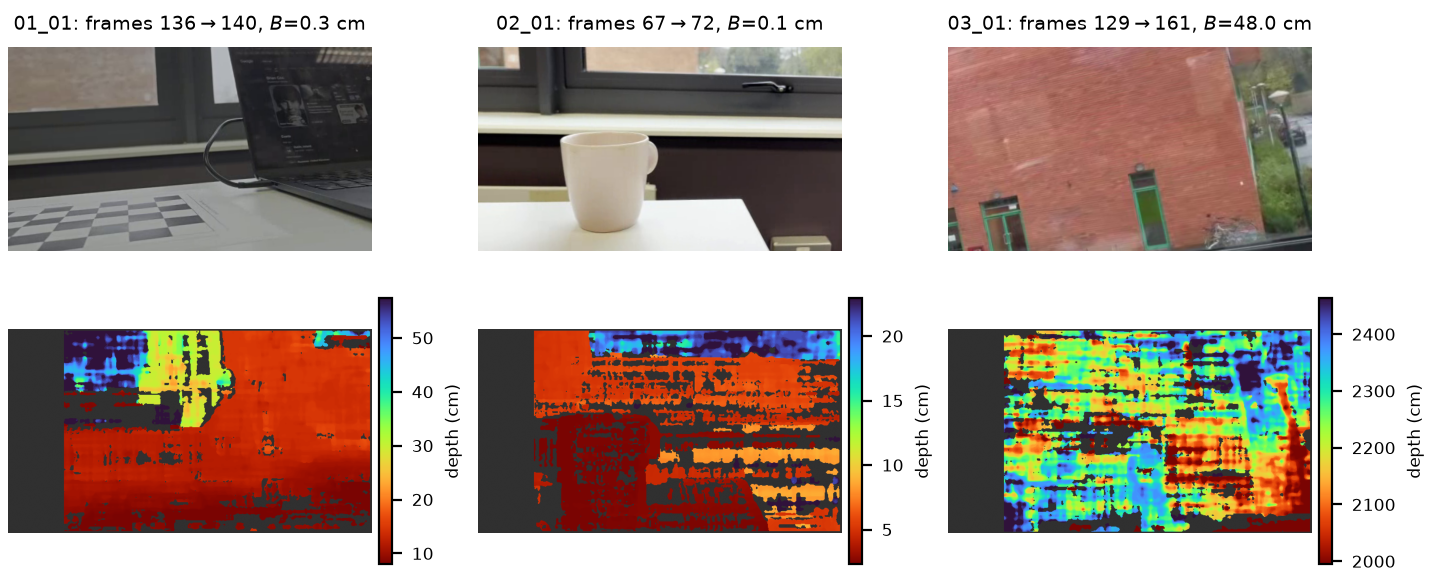
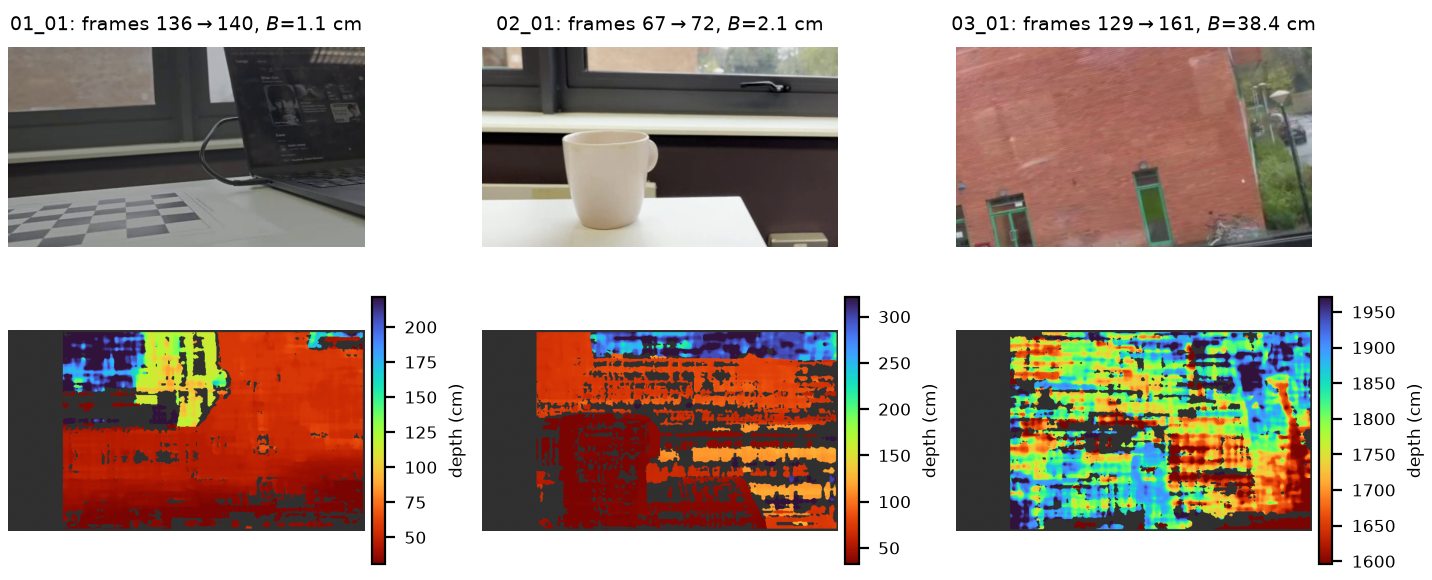
Anchor depth scale to objects of known size
The per-scene camera speeds were guesses (the mug of 02_01 came out ~3 cm
away). mypylibs/scale.py now derives them: 01_01 from the calibration
board on the desk (solvePnP), 02_01 from a mug of typical size, 03_01
from the building's storey and door heights. Report and figures updated.

diff --git a/report.tex b/report.tex
@@ -31,7 +31,7 @@
 \maketitle
 
 \begin{abstract}
-We calibrated three phone cameras (Samsung Galaxy Z Fold6, iPhone 15, iPhone 15 Pro) from checkerboard videos, reaching mean reprojection errors of 0.12--0.41\,px, and used the intrinsics to estimate dense depth from a single moving camera: SIFT matches give the essential matrix and relative pose between two frames of a scene video, which are then rectified and matched with semi-global block matching. The first working version produced depth for only 5 frame pairs across the three scenes. Two causes dominated: a default distance threshold in \texttt{recoverPose} that discarded most points of a small-baseline pair, and the ambiguity between a small pan and a sideways slide. After fixing both, 213 pairs give depth maps whose depth ordering is correct in all scenes, but whose absolute scale depends on a hand-set camera speed and is the weakest part of the pipeline.
+We calibrated three phone cameras (Samsung Galaxy Z Fold6, iPhone 15, iPhone 15 Pro) from checkerboard videos, reaching mean reprojection errors of 0.12--0.41\,px, and used the intrinsics to estimate dense depth from a single moving camera: SIFT matches give the essential matrix and relative pose between two frames of a scene video, which are then rectified and matched with semi-global block matching. The first working version produced depth for only 5 frame pairs across the three scenes. Two causes dominated: a default distance threshold in \texttt{recoverPose} that discarded most points of a small-baseline pair, and the ambiguity between a small pan and a sideways slide. After fixing both, 212 pairs give depth maps whose depth ordering is correct in all scenes. The absolute scale is the weakest part: it comes from a steady-speed assumption, anchored by the calibration board in one scene and by objects of typical size in the other two.
 \end{abstract}
 
 \section{Methodology}
@@ -82,7 +82,7 @@ Each pair is rectified with \texttt{stereoRectify} (\texttt{CALIB\_ZERO\_DISPARI
 \begin{equation}
 Z = \frac{f\,B}{d} = \frac{-P_2[0,3]}{d},
 \end{equation}
-where $P_2$ is the second rectified projection matrix, which already contains $f\cdot B$ ($P_2[1,3]$ for vertical pairs). The translation from \texttt{recoverPose} has no scale, so $B$ is set by assuming the phone moves at a constant speed, hand-picked per scene (0.07, 0.03 and 1.5\,cm/frame) so that a reference object (laptop, mug, building) looked about right: $B=v\,(t_2-t_1)$. The output video shows each pair's depth with a colour bar in centimetres; frames without a usable pair keep the last depth map, labelled with its frame numbers.
+where $P_2$ is the second rectified projection matrix, which already contains $f\cdot B$ ($P_2[1,3]$ for vertical pairs). The translation from \texttt{recoverPose} has no scale, so $B=v\,(t_2-t_1)$, assuming the phone moves at a steady speed $v$ per scene. Video metadata holds no subject distance or motion data, so $v$ comes from something of known size. In 01\_01 the calibration board lies on the desk and is detected (after $2\times$ upscaling) in 5 frames between 90 and 107; \texttt{solvePnP} puts the camera 22--35\,cm from it and moving 4.6\,cm over those 17 frames, $v=0.27$\,cm/frame. In 02\_01 a mug 152\,px tall is assumed to be 9.5\,cm tall, i.e.\ 39\,cm away (its width gives 38.5\,cm); in 03\_01 the building's storeys (${\sim}95$\,px, 3\,m) and doors (${\sim}60$\,px, 2\,m) put the wall at 17.8--18.8\,m. $v$ is then the median, over the depth pairs within 8 frames, of the value that puts the object at that distance: 0.42 and 1.2\,cm/frame. The output video shows each pair's depth with a colour bar in centimetres; frames without a usable pair keep the last depth map, labelled with its frame numbers.
 
 \section{Results}
 
@@ -96,13 +96,13 @@ where $P_2$ is the second rectified projection matrix, which already contains $f
 Scene & frames & poses & depth (first version) & median gap & coverage \\
 \midrule
 01\_01 & 173 & 77 & 75 (2) & 4 & 0.57 \\
-02\_01 & 281 & 139 & 112 (1) & 14 & 0.40 \\
+02\_01 & 281 & 138 & 111 (1) & 14 & 0.40 \\
 03\_01 & 205 & 54 & 26 (2) & 52 & 0.57 \\
 \bottomrule
 \end{tabular}
 \end{table}
 
-Table~\ref{tab:scenes} counts the pairs that pass each stage; ``coverage'' is the median fraction of pixels with a valid depth. Fig.~\ref{fig:depth} shows one pair per scene. In all three the depth ordering is right: the laptop screen and mug are nearest, the window frame is further, and in 03\_01 the building wall is a nearly constant plane with the trees and car park behind it. On scene 01\_01, 75 of the 77 kept poses have $t\approx(-1,0,0)$, consistent with the phone sliding right, and chaining the pairs gives a smooth sideways path (Fig.~\ref{fig:traj}).
+Table~\ref{tab:scenes} counts the pairs that pass each stage; ``coverage'' is the median fraction of pixels with a valid depth. Fig.~\ref{fig:depth} shows one pair per scene. In all three the depth ordering is right and the values are plausible: the desk of 01\_01 at 30--50\,cm with the window 1--2\,m away, the mug of 02\_01 at ${\sim}40$\,cm with the window frame behind it, and in 03\_01 the building wall a nearly constant plane at 16--19\,m with the trees and car park behind it. On scene 01\_01, 75 of the 77 kept poses have $t\approx(-1,0,0)$, consistent with the phone sliding right, and chaining the pairs gives a smooth sideways path (Fig.~\ref{fig:traj}).
 
 \section{Discussion and failure analysis}
 
@@ -113,10 +113,10 @@ The first version kept 2, 1 and 2 pairs (Table~\ref{tab:scenes}) even though mat
 Once those poses were accepted, $t$ switched between $+x$ and $-x$ on neighbouring pairs of 01\_01 although every feature moved left. With a narrow field of view and a few pixels of motion, a slight pan explains the flow almost as well as a sideways slide, and the solver returns a wrong $R$ together with a flipped $t$. Flipping $t$ alone does not help, because the wrong $R$ is self-consistent with it. Instead we undo $R$ on the second frame's points: for a pure translation and positive depth, the remaining flow must all point the same way. On 01\_01, pairs whose $t$ matched the flow direction mostly scored above 95\% agreement and flipped ones 50--85\%, so we reject below 90\%. This cut the usable pairs of 01\_01 from 141 to 75 but removed almost all inconsistent ones; two survive, both where the phone turned by ${\sim}2^\circ$.
 
 \subsubsection{Scale}
-The weakest part is $B$. A single moving camera recovers $t$ only up to scale, and the per-scene speeds were guessed; in Fig.~\ref{fig:depth} the mug of 02\_01 comes out ${\sim}3$\,cm away, which is clearly wrong even if the ordering is right. Assuming constant speed also makes pairs with different gaps inconsistent when the hand speeds up or slows down. Measuring the distance to one object per scene (or sliding along a ruler) would fix the absolute scale; propagating relative scale between overlapping pairs by triangulating shared points would remove the constant-speed assumption.
+The weakest part is $B$. A single moving camera recovers $t$ only up to scale. Our first speeds were guessed (0.07, 0.03 and 1.5\,cm/frame) and put the mug of 02\_01 ${\sim}3$\,cm from the camera; the anchored values are 4$\times$ and 14$\times$ larger for 01 and 02, while the building guess was close. Only 01\_01 is measured; 02 and 03 rest on typical object sizes, so their scale is good to perhaps 15--20\%. The steady-speed assumption is visibly wrong: the pairs near the reference frame imply speeds from 0.19 to 0.51\,cm/frame in 02\_01 and 0.39 to 1.53 in 03\_01. Propagating relative scale between overlapping pairs by triangulating shared points would remove that assumption, leaving one scale factor per scene, and measuring one distance per scene with a tape would fix that factor.
 
 \subsubsection{Recording}
-Camera 02's board was detected in only 57 of 161 calibration frames, all between frames 14 and 90, so 19 views from a narrow range of poses fit $k_3=5.37$: low reprojection error, but a distortion polynomial that is unlikely to hold near the image corners. A slower recording with the board reaching the corners would constrain it better. Scene 03\_01 looks at a building tens of metres away while the phone barely moves (under 10\,px of flow in 60 frames), so pairs need gaps of ${\sim}50$ frames and only 26 give depth; 02\_01 mixes horizontal, vertical and forward motion, and 27 pairs are skipped for forward motion. Glass, the uniform wall and the white desk leave holes in the disparity. Given more time we would re-record with a longer, steadier slide, fix the scale as above, and fuse depth over several pairs per frame instead of showing one.
+Camera 02's board was detected in only 57 of 161 calibration frames, all between frames 14 and 90, so 19 views from a narrow range of poses fit $k_3=5.37$: low reprojection error, but a distortion polynomial that is unlikely to hold near the image corners. A slower recording with the board reaching the corners would constrain it better. We recorded one scene per camera rather than the two the brief asks for. Scene 03\_01 looks at a building ${\sim}18$\,m away while the phone barely moves (under 10\,px of flow in 60 frames), so pairs need gaps of ${\sim}50$ frames and only 26 give depth; 02\_01 mixes horizontal, vertical and forward motion, and 27 pairs are skipped for forward motion. Glass, the uniform wall and the white desk leave holes in the disparity. Given more time we would re-record with a longer, steadier slide, fix the scale as above, and fuse depth over several pairs per frame instead of showing one.
 
 \printbibliography
 

diff --git a/mypylibs/scale.py b/mypylibs/scale.py
@@ -1,0 +1,109 @@
+"""Camera speed (cm/frame) per scene, i.e. the scale of the depth step. Run after main.py:
+
+    python -m mypylibs.scale
+
+recoverPose's t has no length, so the depth step assumes the phone slides at a steady
+speed (runner.CM_PER_FRAME). The phones' video metadata has no subject distance or
+motion data, so the speed comes from something of known size in each scene:
+
+  01_01  the calibration board lies on the desk: solvePnP gives the camera position in
+         every frame where it is detected, and the speed is measured directly.
+  02_01  a mug, assumed 9.5 cm tall (152 px at frame 67, so ~39 cm away; its 8.2 cm
+         width gives 38.5 cm).
+  03_01  the building wall, ~18 m away at frame 129: storeys repeat every ~95 px (3 m
+         floor to floor -> 17.8 m) and the doors are ~60 px tall (2 m -> 18.8 m).
+
+For 02 and 03 the speed is the one that makes the median depth over the object match
+that distance, taken as the median over the depth pairs near the reference frame. The
+pairs disagree by up to 3x, partly because the hand doesn't move at a steady speed.
+"""
+
+import csv
+from os import path as opath
+
+import cv2
+import numpy as np
+
+from mypylibs.calibration import board_points
+from mypylibs.depth import compute_depth
+from mypylibs.frames import PATTERN
+from mypylibs.pose import detect, estimate_pose, match_features
+from mypylibs.runner import ROOT_IN, ROOT_OUT
+from mypylibs.video import read_frames
+
+# scene: (reference frame, object region x0, x1, y0, y1 in px, distance in cm)
+OBJECTS = {
+    '02_01': (67, (180, 280, 175, 290), 39.0),     # mug
+    '03_01': (129, (20, 360, 130, 260), 1800.0),   # building wall
+}
+NEAR = 8  # use depth pairs starting within this many frames of the reference frame
+
+
+def load(scene: str) -> tuple[list[np.ndarray], np.ndarray, np.ndarray]:
+    cam = scene[:2]
+    K = np.loadtxt(opath.join(ROOT_OUT, f'{cam}_K.csv'), delimiter=',')
+    D = np.loadtxt(opath.join(ROOT_OUT, f'{cam}_D.csv'), delimiter=',')
+    return read_frames(opath.join(ROOT_IN, f'{scene}.mp4')), K, D
+
+
+def board_speed(scene: str) -> float:
+    """Camera speed from the board's pose in every frame where the whole board is found.
+
+    The board is small and seen at a grazing angle, so frames are upscaled 2x and the
+    classic detector is used: the sector-based one finds nothing in 01_01.
+    """
+    frames, K, D = load(scene)
+    obj, centres = board_points(), {}
+    for i, frame in enumerate(frames):
+        gray = cv2.resize(cv2.cvtColor(frame, cv2.COLOR_BGR2GRAY), None, fx=2, fy=2,
+                          interpolation=cv2.INTER_CUBIC)
+        found, corners = cv2.findChessboardCorners(
+            gray, PATTERN, cv2.CALIB_CB_ADAPTIVE_THRESH | cv2.CALIB_CB_NORMALIZE_IMAGE)
+        if not found:
+            continue
+        corners = cv2.cornerSubPix(gray, corners, (5, 5), (-1, -1),
+                                   (cv2.TERM_CRITERIA_EPS + cv2.TERM_CRITERIA_MAX_ITER, 30, 0.01)) / 2
+        _, rvec, tvec = cv2.solvePnP(obj, corners, K, D)
+        centres[i] = (-cv2.Rodrigues(rvec)[0].T @ tvec).ravel()
+    idx = sorted(centres)
+    if len(idx) < 2:
+        raise RuntimeError(f'{scene}: board found in {len(idx)} frames, need 2')
+    distance = np.linalg.norm(centres[idx[-1]] - centres[idx[0]])
+    print(f'{scene}: board in frames {idx}, camera moved {distance:.2f} cm')
+    return float(distance / (idx[-1] - idx[0]))
+
+
+def object_speed(scene: str) -> float:
+    """Speed that puts the object at its known distance (median over nearby depth pairs)."""
+    ref, (x0, x1, y0, y1), distance = OBJECTS[scene]
+    frames, K, D = load(scene)
+    with open(opath.join(ROOT_OUT, scene.replace('_', '-') + '_status.csv')) as f:
+        pairs = {int(r['first_frame']): int(r['second_frame'])
+                 for r in csv.DictReader(f) if r['status'] == 'OK'}
+    xs, ys = np.meshgrid(np.arange(x0, x1, 4), np.arange(y0, y1, 4))
+    pts = np.float32(np.c_[xs.ravel(), ys.ravel()]).reshape(-1, 1, 2)
+    h, w = frames[0].shape[:2]
+
+    speeds = []
+    for i in sorted(p for p in pairs if abs(p - ref) <= NEAR):
+        j = pairs[i]
+        pose = estimate_pose(*match_features(detect(frames[i]), detect(frames[j])), K, D)
+        t = pose['t'] * (j - i) / np.linalg.norm(pose['t'])  # depth at 1 cm/frame
+        _, depth = compute_depth(frames[i], frames[j], K, D, pose['R'], t)
+        # The depth map is in rectified coordinates: move the object's pixels there too
+        R1, _, P1, _, _, _, _ = cv2.stereoRectify(K, D, K, D, (w, h), pose['R'], t,
+                                                  flags=cv2.CALIB_ZERO_DISPARITY, alpha=0)
+        r = np.round(cv2.undistortPoints(pts, K, D, R=R1, P=P1).reshape(-1, 2)).astype(int)
+        r = r[(r[:, 0] >= 0) & (r[:, 0] < w) & (r[:, 1] >= 0) & (r[:, 1] < h)]
+        z = depth[r[:, 1], r[:, 0]]
+        z = z[np.isfinite(z)]
+        if len(z):
+            speeds.append(distance / np.median(z))
+            print(f'{scene} frames {i}->{j}: {speeds[-1]:.3f} cm/frame')
+    return float(np.median(speeds))
+
+
+if __name__ == '__main__':
+    print(f"01_01: {board_speed('01_01'):.3f} cm/frame")
+    for scene in OBJECTS:
+        print(f'{scene}: {object_speed(scene):.3f} cm/frame')

diff --git a/mypylibs/runner.py b/mypylibs/runner.py
@@ -24,13 +24,12 @@ from mypylibs.depth import make_depth_video
 ROOT_IN = 'in'
 ROOT_OUT = 'out'
 
-# Monocular poses have no scale, so the camera speed is set by hand per scene: chosen
-# so a reference object comes out at its estimated distance (0.07 cm/frame was
-# first set as "0.7 cm per 10 frames").
+# Monocular poses have no scale, so the depth step assumes a steady camera speed per
+# scene, from something of known size in it (python -m mypylibs.scale, after main.py)
 CM_PER_FRAME = {
-    '01_01': 0.07,  # laptop
-    '02_01': 0.03,  # mug
-    '03_01': 1.5,   # building
+    '01_01': 0.27,  # measured: calibration board on the desk, solvePnP
+    '02_01': 0.42,  # estimated: mug ~9.5 cm tall -> ~39 cm away
+    '03_01': 1.2,   # estimated: building ~18 m away (storey and door heights)
 }
 
 
